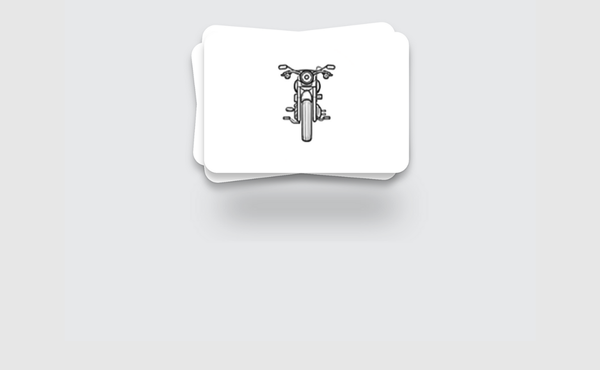
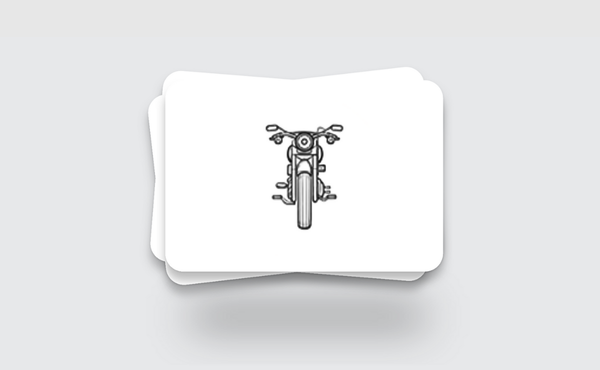
Work in progress

Changed region(s): [[0.24, 0.1486, 0.75, 0.9216], [0.24, 0.327, 0.27, 0.5054]]

diff --git a/styles.css b/styles.css
@@ -4,7 +4,7 @@ a {
     a:hover {
         text-decoration: underline;
     }
-    .compare-section {
+    .compare-section, .compare-section2 {
         border: 1px solid #181818;
         border-radius: 10px;
         padding: 40px;
@@ -28,8 +28,10 @@ a {
         box-shadow: 0 6px 8px rgba(0, 0, 0, 0.3); 
     }
     .bike-card img {
-        width: 100%;
-        height: 100%;
+         width: 230px;   /* adjust to desired size */
+        height: auto;   /* maintain aspect ratio */
+        display: block;
+        margin: 0px auto 0 auto; 
         
     }
     .bike-card-upload img {
@@ -217,7 +219,8 @@ a {
         transition: 0.3s;
     }
     .reset-btn:hover {
-        background: #e69900;
+        transform: translateY(-2px);
+    box-shadow: 0 6px 8px rgba(0, 0, 0, .15);
     }
 
 
@@ -265,6 +268,9 @@ a {
             font-size: 15px;
             bottom: 35px;     
         }
+        .bike-card-upload img {
+            width: 220px;   /* adjust to desired size */ 
+        }
     }
     @media (min-width: 1000px) and (max-width: 1200px) {
         .price {
@@ -296,7 +302,17 @@ a {
         .text-content small {
             font-size: 14px;
         }
+    
     }
+@media (max-width: 590px) {
+  .comparison-table table {
+    font-size: 9px; /* smaller text for small screens */
+  }
+  .compare-section2 {
+        padding: 8px;
+    }
+}
+
 
 
 

diff --git a/index.html b/index.html
@@ -88,8 +88,8 @@
 </div>
 
   <!-- Comparison Table Section -->
-<div class="compare-section mt-4">
-  <div class="comparison-table">
+<div class="compare-section2 mt-4">
+  <div class="comparison-table table-responsive">
     
     <table class="table mb-0 text-center align-middle">
       <thead>
